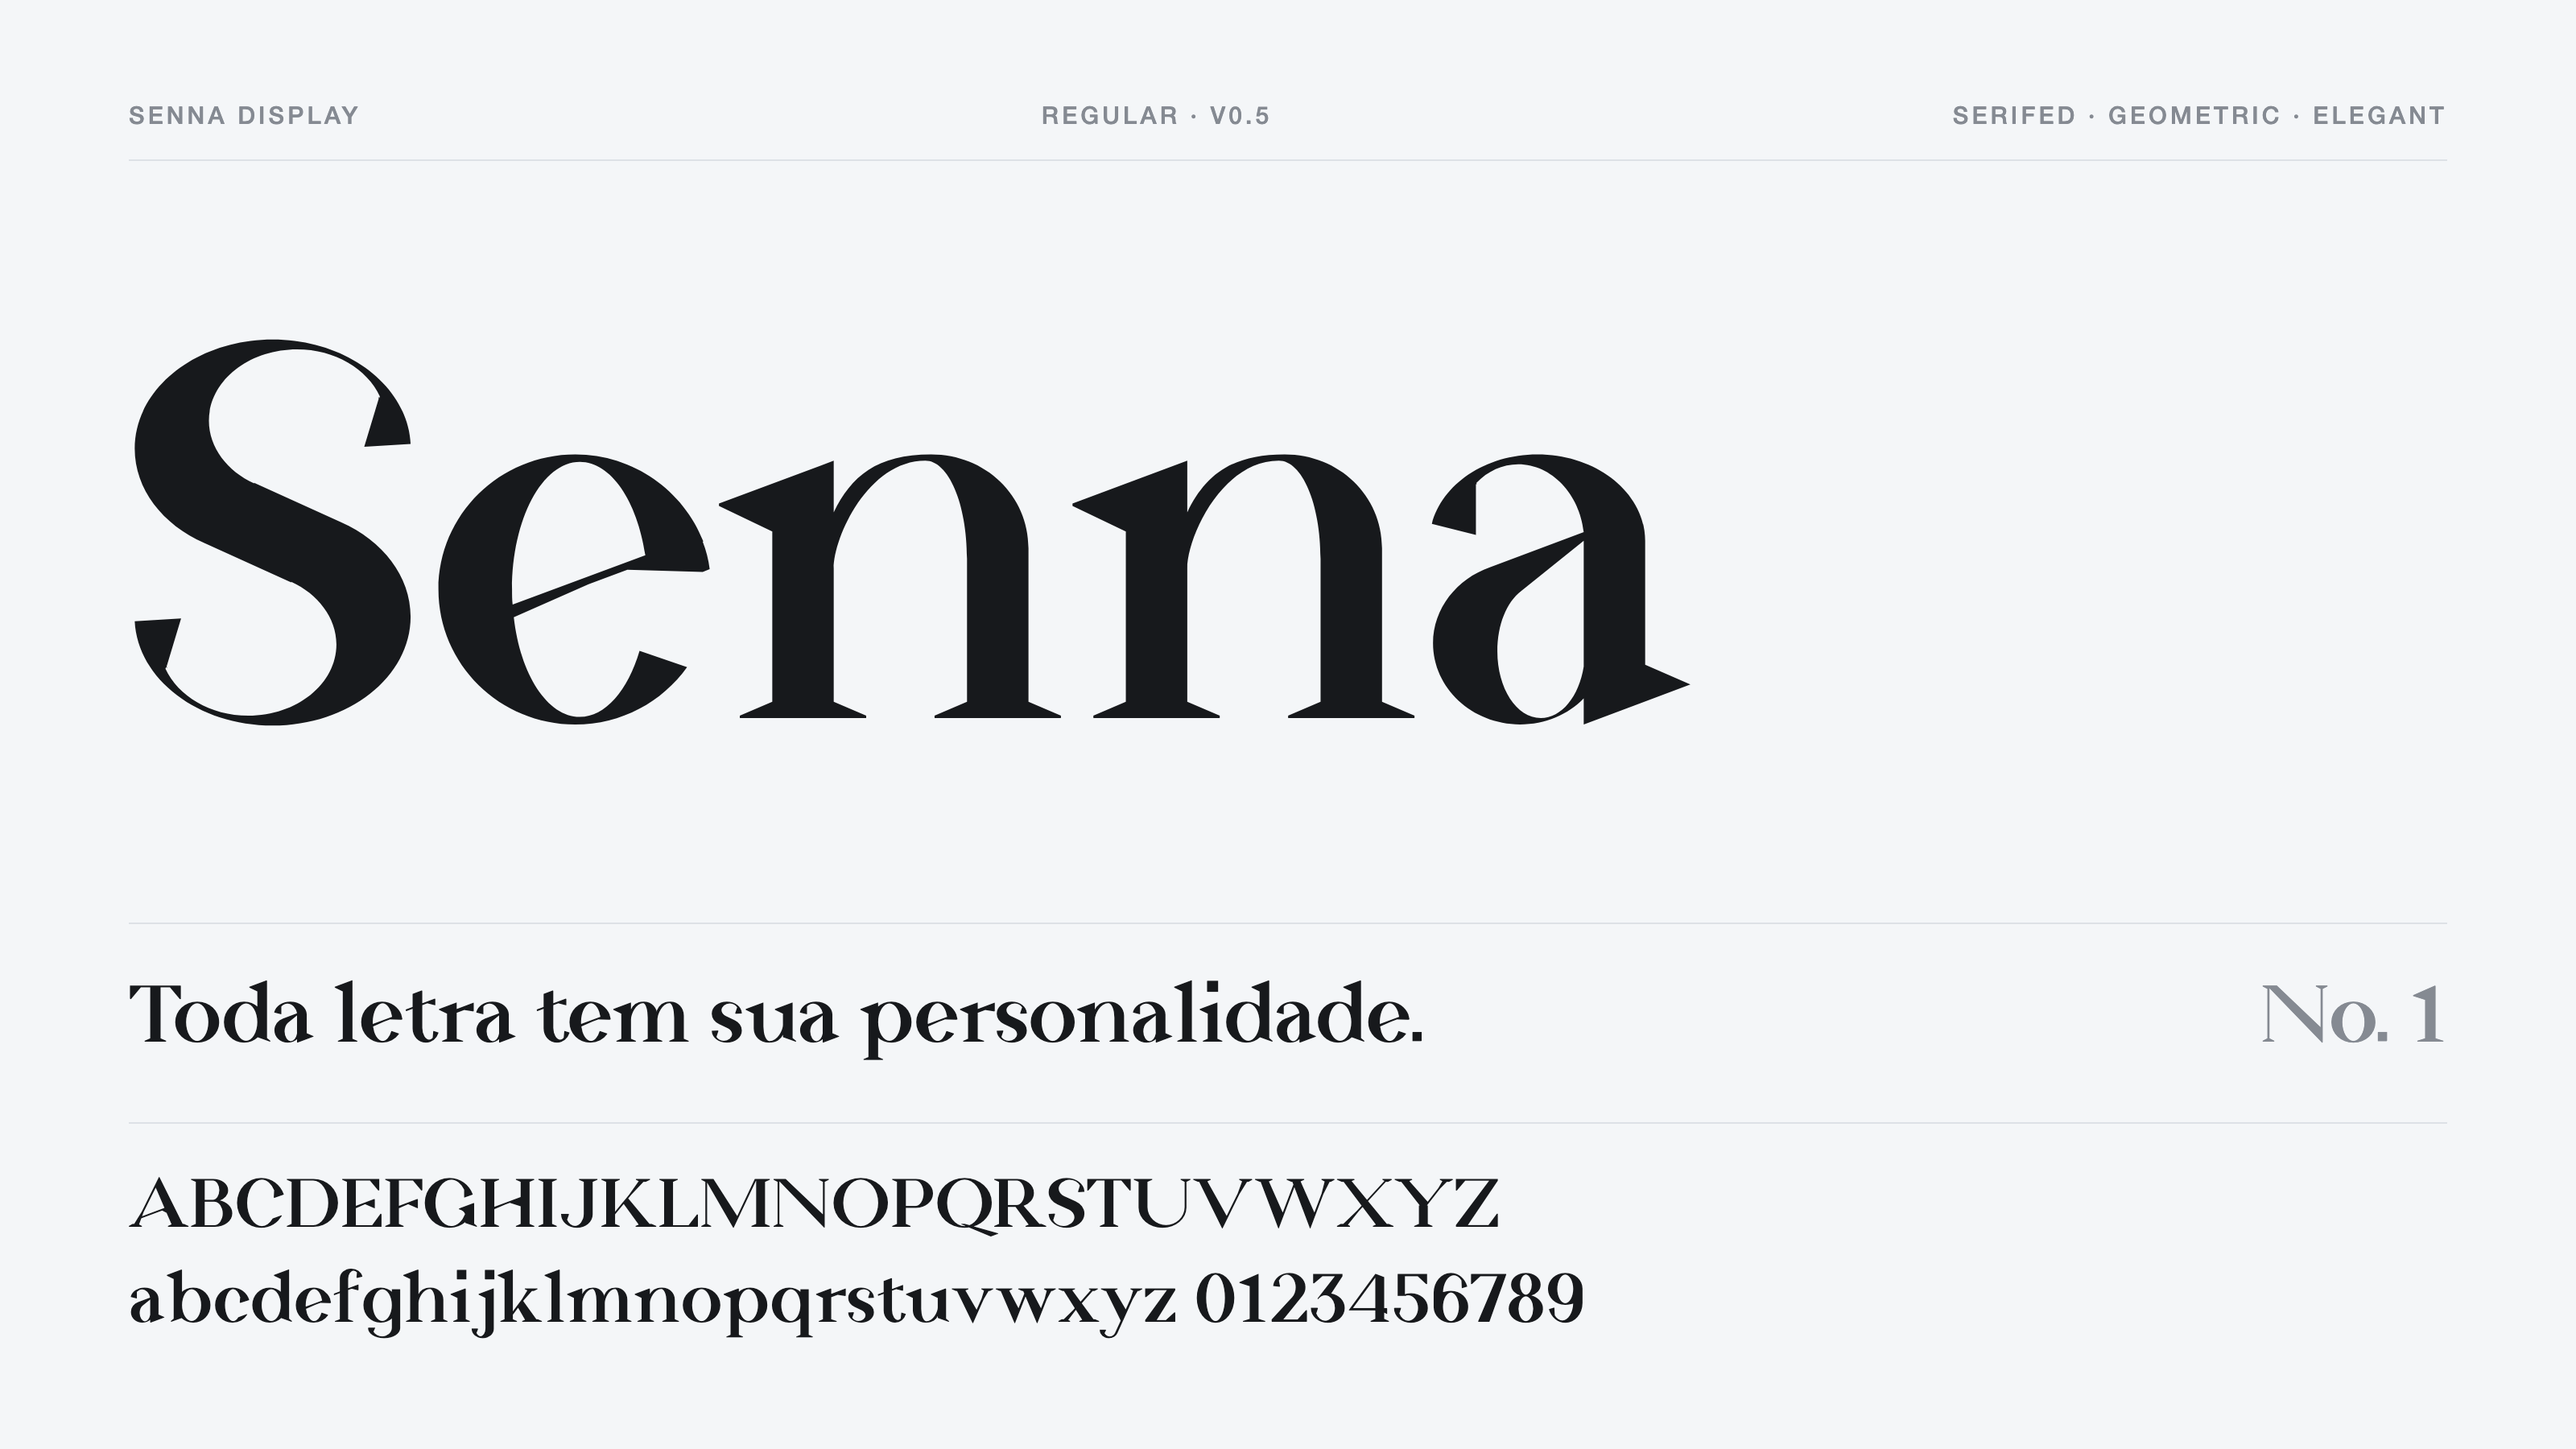
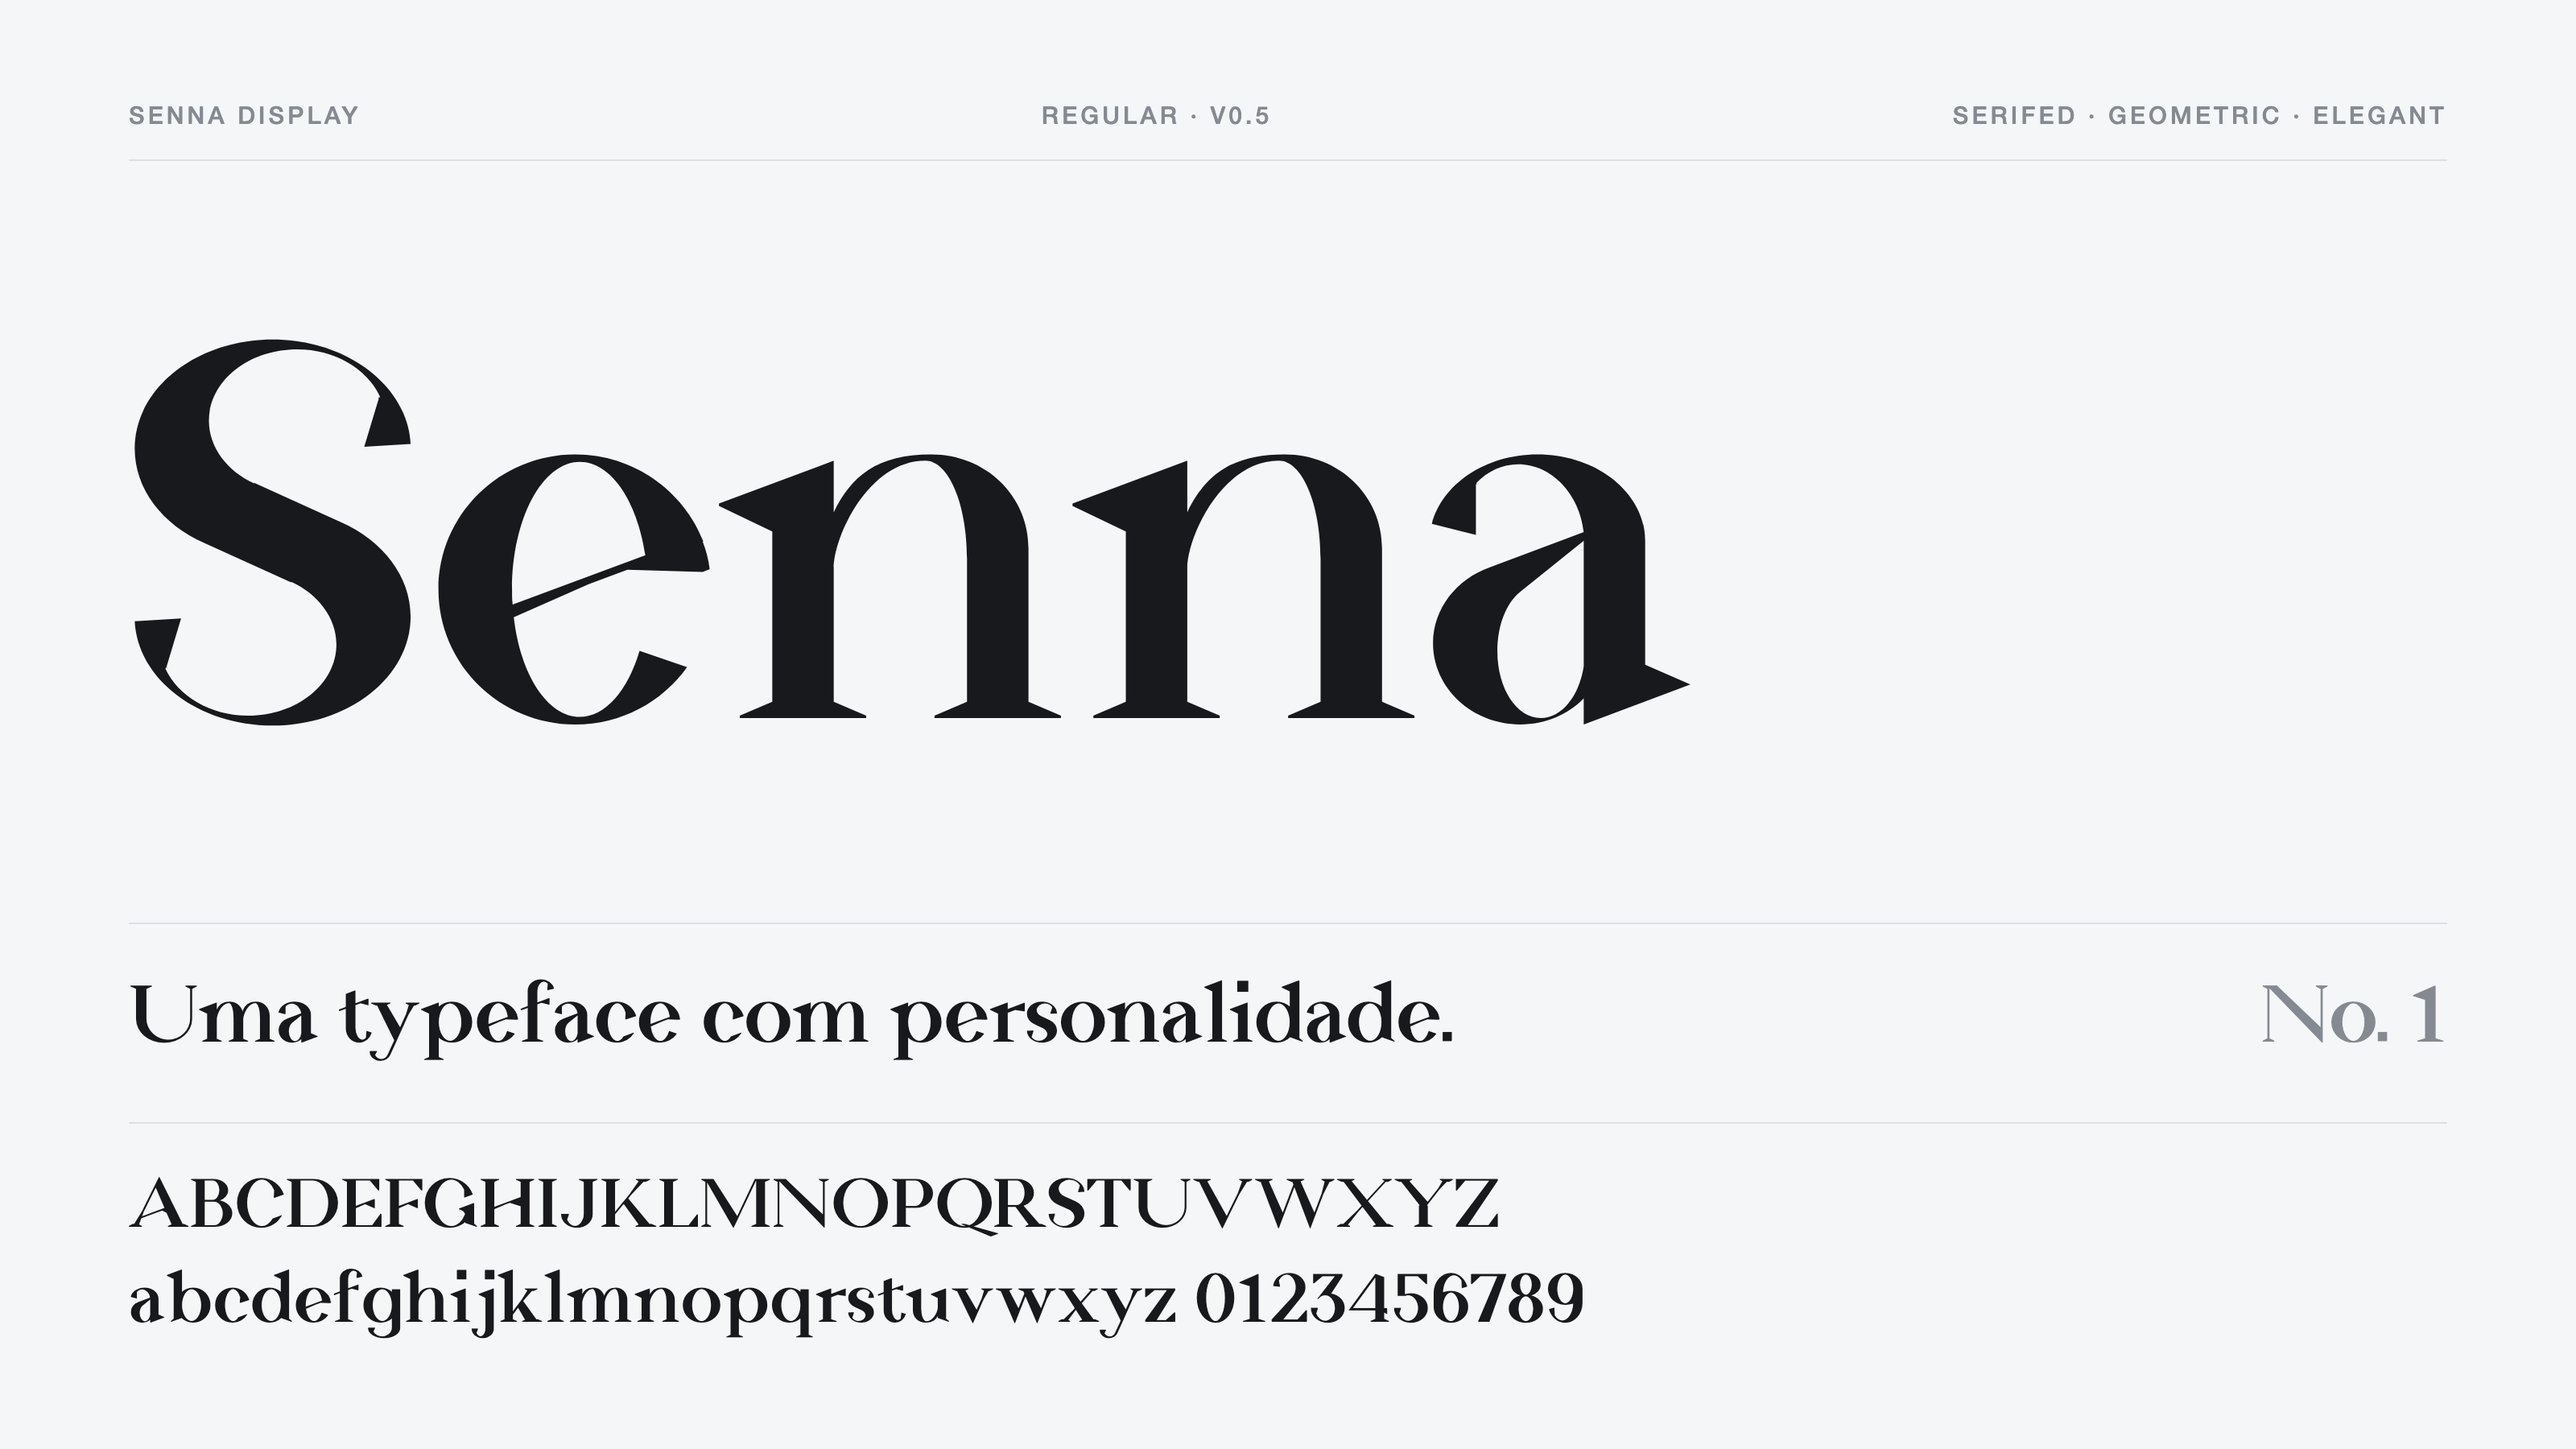
Portuguese tagline on the README image

Changed region(s): [[0.0312, 0.6533, 0.5625, 0.7467]]

diff --git a/specimen/readme-card.html b/specimen/readme-card.html
@@ -32,7 +32,7 @@
     <div class="name senna">Senna</div>
   </div>
   <div>
-    <div class="tag senna">Toda letra tem sua personalidade. <span>No. 1</span></div>
+    <div class="tag senna">Uma typeface com personalidade. <span>No. 1</span></div>
     <div class="sets senna">
       <div>ABCDEFGHIJKLMNOPQRSTUVWXYZ</div>
       <div>abcdefghijklmnopqrstuvwxyz 0123456789</div>
